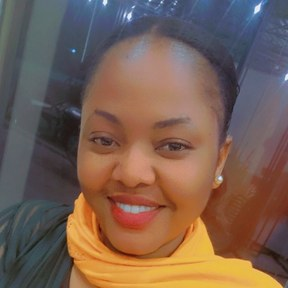
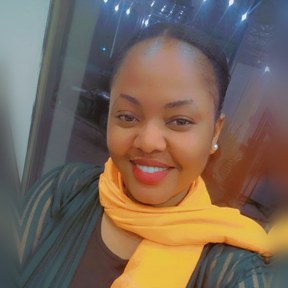
Irene og Monika: portrettene zoomet ut (840 px-utsnitt)
Marit 2026-10-29: mer av personene og mer luft. Irene-originalen er bare 720 px
bred, så bakgrunnen utvides ved å speile og gjøre kantene uskarpe (utvid_sidene).

diff --git a/verktoy/ansatt-irene.py b/verktoy/ansatt-irene.py
@@ -1,20 +1,34 @@
 #!/usr/bin/env python3
 """Irenes portrett til ansattsitatet på Om oss (Marit 2026-10-14: «Hvilket blir best på nettsiden?»; Ricky prøvde først «Irene 1», så «Irene2»).
 
-Kilden er `Irene2 (1).jpg` (720 × 1280) i CleanUnit.Dokumenter/Oslo/14.10, utenfor repoet. Utsnittet er et kvadrat rundt hodet
+Kilden er `Irene2 (1).jpg` (720 × 1280) i CleanUnit.Dokumenter/Oslo/14.10, utenfor repoet. Utsnittet (840 px, med utvidet bakgrunn, se utvid_sidene) er et kvadrat rundt hodet
 (hår og skuldre med), skalert til 288 px (3 × avatarens 96 px, så det er skarpt på 3x-skjermer; var 192 px for 64 px-avataren før Ricky ville ha den større 2026-10-28) og lagret som WebP og JPG.
 Metningen dempes litt (0,85): originalen er sterkt mettet (oransje skjerf, rødt lys), og det slo ut mot de dempede fargene på siden.
 Avataren rundes av CSS (.sitat-avatar--foto), ikke her.
 
 Kjør fra repo-roten: python3 verktoy/ansatt-irene.py"""
 from pathlib import Path
-from PIL import Image, ImageEnhance
+import numpy as np
+from PIL import Image, ImageDraw, ImageEnhance, ImageFilter
 
 KILDE = Path('/home/ricky/Dokumenter/Koding/CleanUnit.Dokumenter/Oslo/14.10/Irene2 (1).jpg')
 UT = Path(__file__).resolve().parent.parent / 'bilder'
-RUTE = (80, 30, 720, 670)                 # x0, y0, x1, y1: hodet midtstilt, litt luft over håret
+SIDE = 840                                # utsnittets side i originalens piksler (Marit 2026-10-29: «zoomes litt ut»; var 640)
 
-im = Image.open(KILDE).convert('RGB').crop(RUTE).resize((288, 288), Image.LANCZOS)
+
+def utvid_sidene(im, side):
+    # Originalen er bare 720 px bred. Et videre utsnitt trenger bakgrunn på sidene: kantene speiles og gjøres uskarpe
+    # (bakgrunnen er allerede uskarp, så skjøten syns ikke). Hodet og skjerfet ligger langt fra kantene.
+    ekstra = (side - im.width) // 2
+    stor = Image.fromarray(np.pad(np.asarray(im), ((0, 0), (ekstra, ekstra), (0, 0)), mode='reflect'))
+    maske = Image.new('L', stor.size, 0)
+    tegn = ImageDraw.Draw(maske)
+    tegn.rectangle((0, 0, ekstra, stor.height), fill=255)
+    tegn.rectangle((stor.width - ekstra, 0, stor.width, stor.height), fill=255)
+    return Image.composite(stor.filter(ImageFilter.GaussianBlur(25)), stor, maske.filter(ImageFilter.GaussianBlur(20)))
+
+
+im = utvid_sidene(Image.open(KILDE).convert('RGB'), SIDE).crop((0, 0, SIDE, SIDE)).resize((288, 288), Image.LANCZOS)
 im = ImageEnhance.Color(im).enhance(0.85)
 im.save(UT / 'ansatt-irene.webp', quality=88, method=6)
 im.save(UT / 'ansatt-irene.jpg', quality=88, optimize=True)

diff --git a/verktoy/portretter.py b/verktoy/portretter.py
@@ -23,7 +23,7 @@ PERSONER = {
     'mari':  ('MARI_1_FARGE.jpg',  {'': (1780, 0, 3300), 'liten': (1780, 0, 3456)}),
     'age':   ('ÅGE_2_FARGE.jpg',   {'': (1680, 250, 3300), 'liten': (1680, 200, 3456)}),
 }
-MONIKA = ('Monika S.jpeg', (770, 30, 720))
+MONIKA = ('Monika S.jpeg', (770, 0, 840))
 
 
 def finn(navn):
